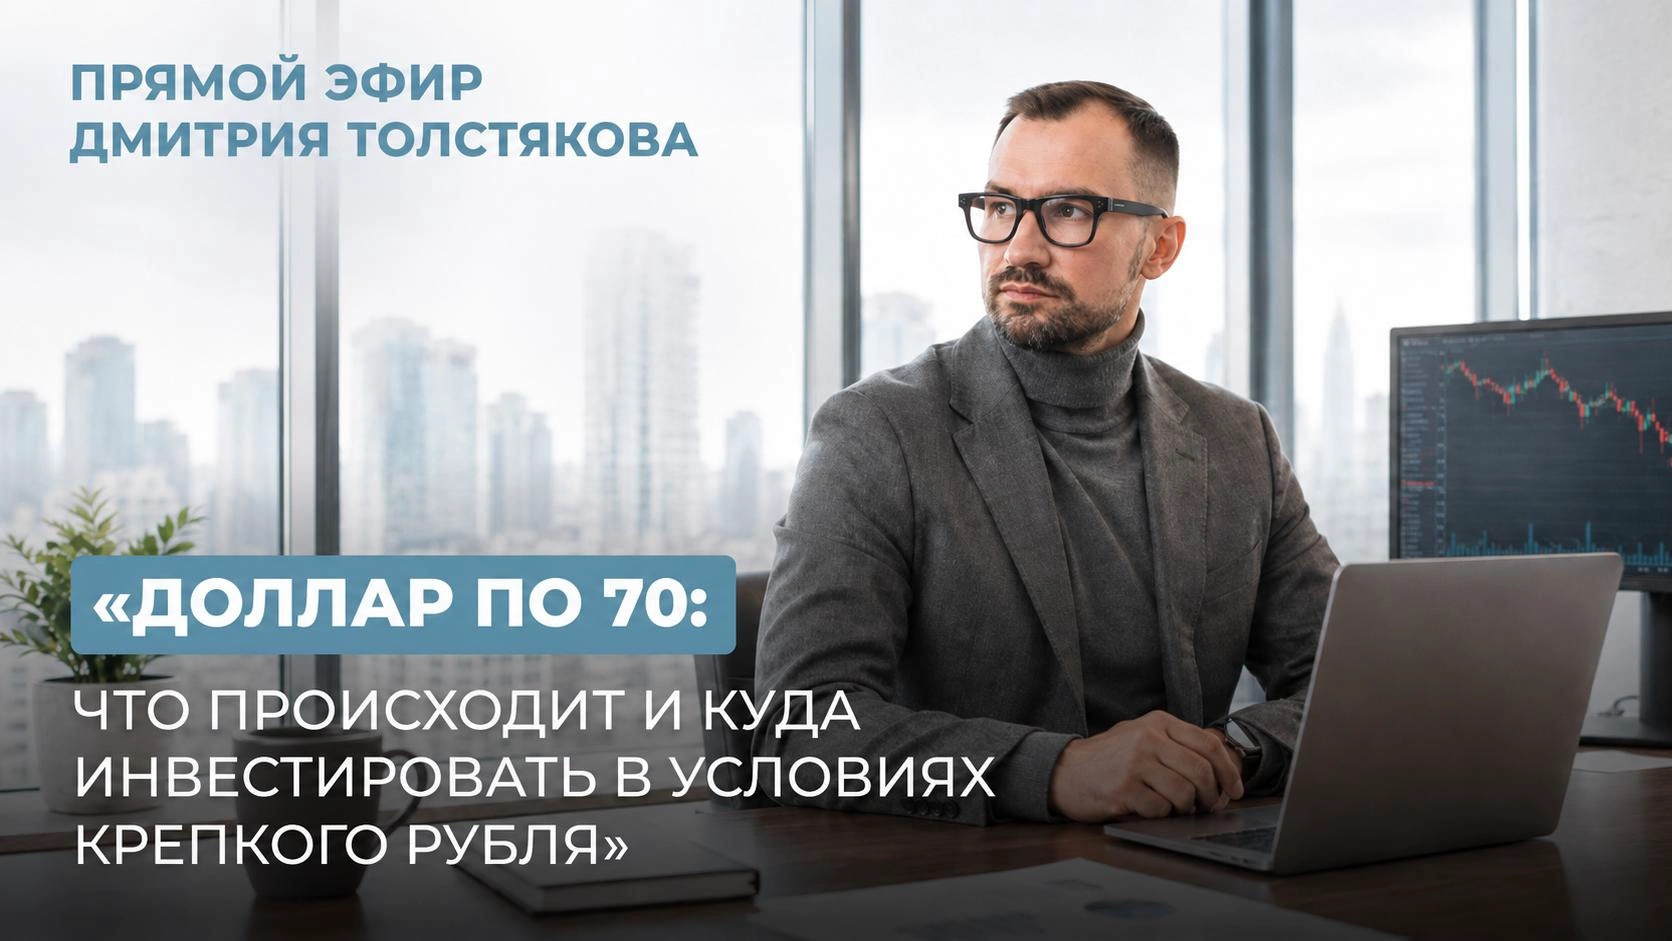
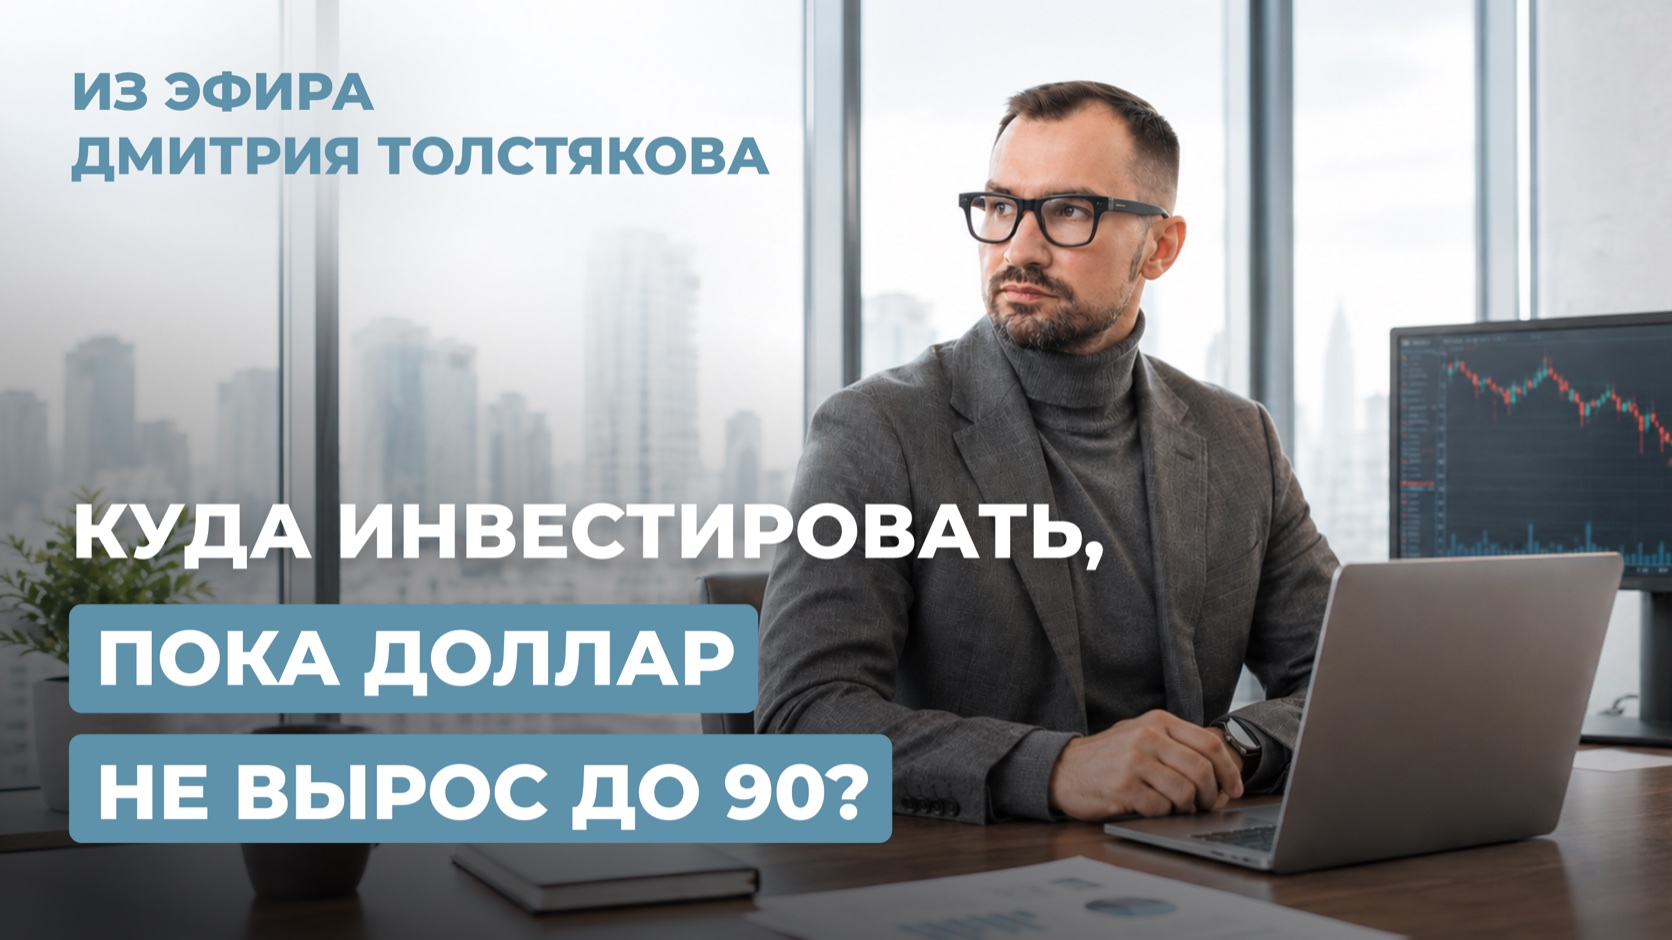
dollar-urok2: новая обложка (куда инвестировать пока доллар не вырос до 90) + og:image на постер

diff --git a/dollar-urok2/index.html b/dollar-urok2/index.html
@@ -8,7 +8,7 @@
 <meta property="og:type" content="website">
 <meta property="og:title" content="Рубль слабеет. Куда переложить деньги, чтобы они не обесценились?">
 <meta property="og:description" content="Бесплатный разбор: инструменты валютной подушки и что проверить до покупки.">
-<meta property="og:image" content="https://guides.fin-ra.pro/invest-salary-2026/speaker.png">
+<meta property="og:image" content="https://guides.fin-ra.pro/dollar-urok2/poster.jpg">
 <meta property="og:url" content="https://guides.fin-ra.pro/dollar-urok2/">
 <link rel="icon" href="/favicon.ico">
 <title>Куда переложить деньги, пока рубль крепкий | FIN-RA</title>
@@ -152,7 +152,7 @@ body{font-family:var(--fb); background:var(--bg); color:var(--ink);
 <main class="stage">
   <article class="card">
     <div class="cover" onclick="openModal()">
-      <img class="poster" src="poster.jpg" alt="Доллар по 70: разбор Дмитрия Толстякова" width="1672" height="941">
+      <img class="poster" src="poster.jpg?v=2" alt="Куда инвестировать, пока доллар не вырос до 90 — из эфира Дмитрия Толстякова" width="1672" height="940">
       <span class="free-badge"><span class="dot"></span>Бесплатно</span>
       <span class="play"><svg viewBox="0 0 24 24" fill="currentColor"><path d="M8 6v12l12-6z"/></svg></span>
     </div>
